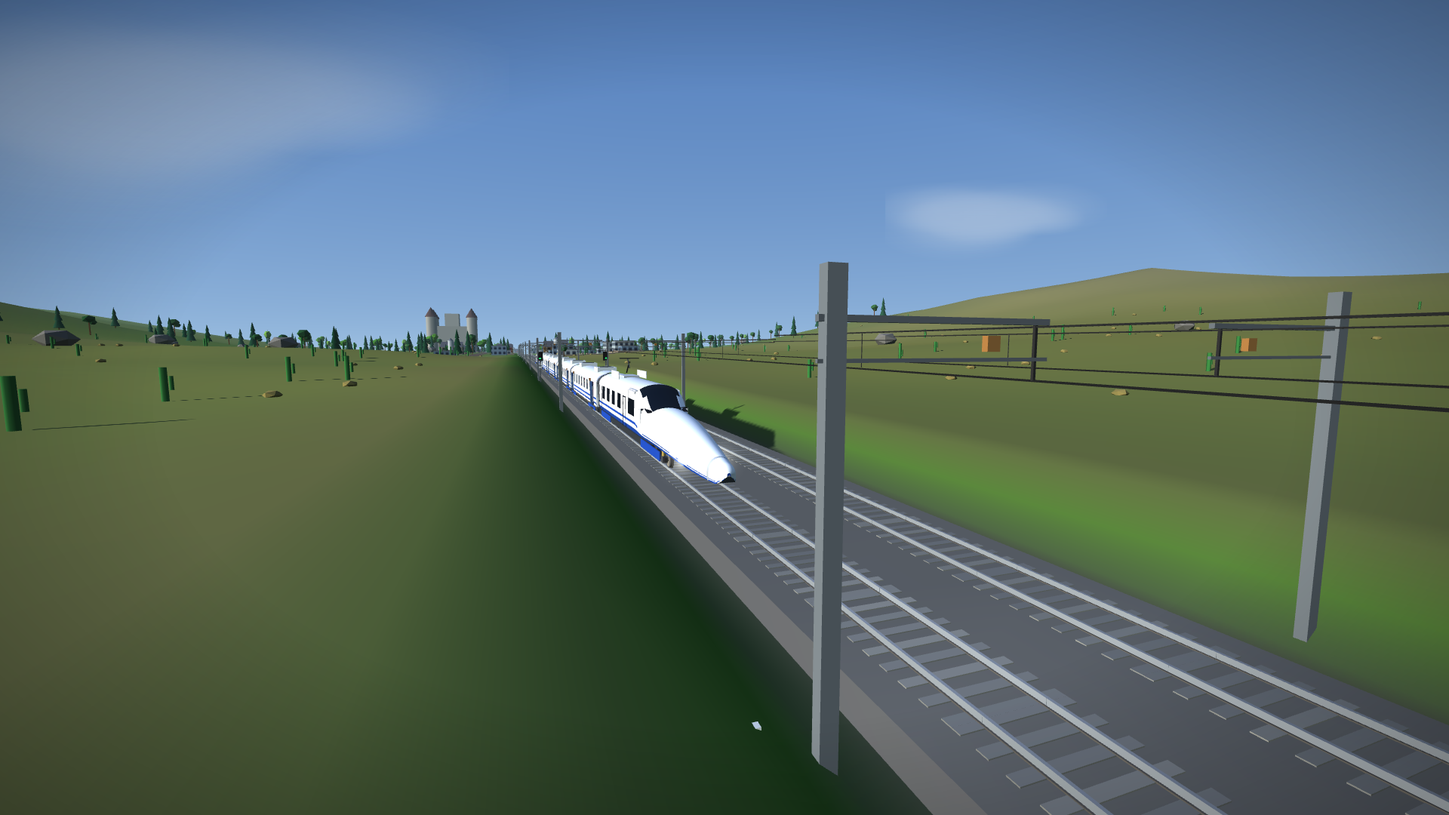
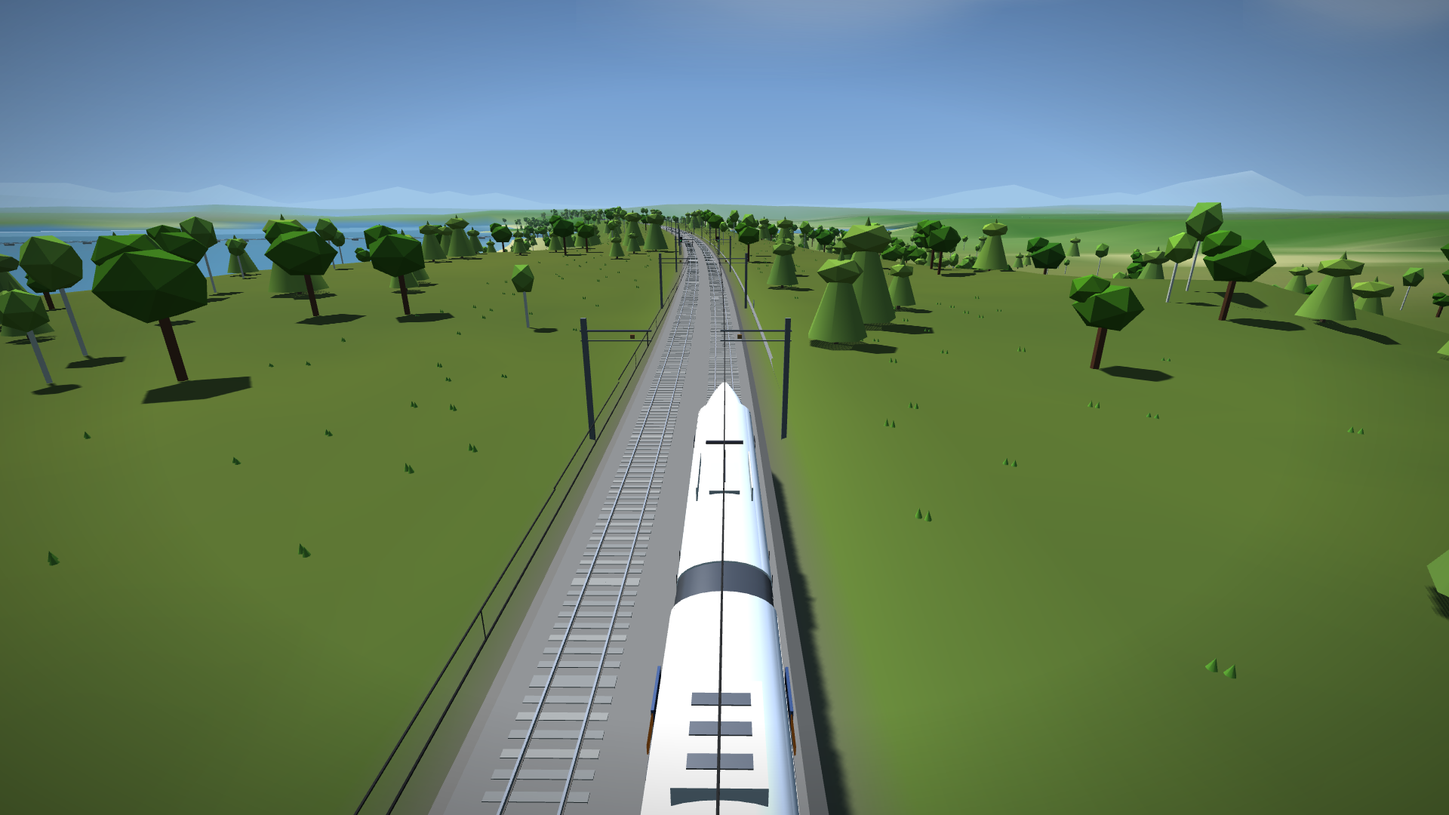
Google Play publication kit and fresh store screenshots from 2.0.0
- docs/release/google-play: first message for a browser-enabled session, answers for every Play Console form,
  testers' invitation, GitHub Pages developer site
- android/store/screenshots: 7 new 1920x1080 shots of the current build (high-speed train, cab at sunrise, rain with
  wipers, night run, station, inside the car, menu)

Claude-Session: https://claude.ai/code/session_017UEFq91NZ3baap6wsPnJ2Z

diff --git a/endless-rails/docs/release/google-play/website/index.html b/endless-rails/docs/release/google-play/website/index.html
@@ -1,0 +1,24 @@
+<!doctype html>
+<html lang="en">
+<head>
+<meta charset="utf-8">
+<meta name="viewport" content="width=device-width, initial-scale=1">
+<title>Endless Rails</title>
+<style>
+:root{--ink:#0b1017;--paper:#e9e4d8;--steel:#9fb3c8;--brass:#e8a33d}
+body{margin:0;background:var(--ink);color:var(--paper);font:16px/1.6 system-ui,-apple-system,"Segoe UI",sans-serif}
+main{max-width:720px;margin:0 auto;padding:48px 16px}
+h1{letter-spacing:.08em;margin:0 0 8px}h1 span{color:var(--brass)}
+p{color:var(--paper)}a{color:var(--brass)}small{color:var(--steel)}
+</style>
+</head>
+<body>
+<main>
+<h1>ENDLESS <span>RAILS</span></h1>
+<p>A relaxing train-driving simulator on an endless double-track railway: two trains, ten cameras, weather, day and night,
+driver training and ten languages.</p>
+<p><a href="privacy-policy.html">Privacy policy</a></p>
+<p><small>Contact: [CONTACT E-MAIL]</small></p>
+</main>
+</body>
+</html>

diff --git a/endless-rails/docs/release/google-play/PLAY_CONSOLE_ANSWERS_UK.md b/endless-rails/docs/release/google-play/PLAY_CONSOLE_ANSWERS_UK.md
@@ -1,0 +1,98 @@
+# ENDLESS RAILS — готові відповіді для Google Play Console
+
+Назви полів подано англійською, як у Play Console. Якщо екран виглядає інакше (Google часто змінює інтерфейс),
+відповідай за змістом. Для пунктів, яких тут немає, — спершу питай.
+
+## 1. Create app
+| Поле | Відповідь |
+|---|---|
+| App name | `Endless Rails: Train Driver` (en) або `Endless Rails: машиніст` (uk), повний список — `store/listing/*.txt` |
+| Default language | English (United States) – en-US (або Ukrainian – uk) |
+| App or game | **Game** |
+| Free or paid | **Free** (змінити на платну потім неможливо) |
+| Declarations | Developer Program Policies ✔, US export laws ✔ — **ставить власник акаунта сам** |
+
+## 2. App content (Policy → App content)
+| Розділ | Відповідь |
+|---|---|
+| Privacy policy | `https://<логін>.github.io/privacy-policy.html` (після кроку з сайтом) |
+| App access | **All functionality is available without any access restrictions** |
+| Ads | **Yes, my app contains ads** |
+| Content rating | анкета нижче (§3) |
+| Target audience and content | Вік: **13–15, 16–17, 18+** (не обирати групи до 13 років). «Could your store listing unintentionally appeal to children?» → **No** |
+| News apps | **No** |
+| COVID-19 apps | My app is not a publicly available COVID-19 app |
+| Data safety | §4 |
+| Government apps | **No** |
+| Financial features | **My app doesn't provide any financial features** |
+| Health | **My app doesn't have any health features** |
+| Advertising ID | **Yes**. Цілі: **Advertising or marketing**; **Fraud prevention, security, and compliance**; **Analytics** |
+| Інші декларації (foreground service, photo/video, exact alarms, accessibility тощо) | Не застосовуються: таких дозволів у застосунку немає. Якщо Play Console усе ж питає — показати мені |
+
+## 3. Content rating (анкета IARC)
+* Email: контактний email розробника. Category: **Game**.
+* Violence — **No** (людей і тварин ніхто не кривдить; вулкан, цунамі, торнадо, метеорити — лише візуальні природні явища без постраждалих).
+* Fear / horror — **No**. Sexuality / nudity — **No**. Language (profanity) — **No**. Controlled substances (drugs, alcohol, tobacco) — **No**. Crude humour — **No**.
+* Gambling / simulated gambling / loot boxes — **No**.
+* Users can interact or exchange content (chat, UGC) — **No**. Shares user's current physical location — **No**.
+* Digital purchases (in-app purchases) — **No**. Unrestricted internet / web browser — **No**.
+* Очікуваний результат: «Everyone» / PEGI 3 / USK 0 — рейтинг визначає анкета, не ми.
+
+## 4. Data safety
+Сама гра нічого не збирає й не надсилає. Дані обробляє лише **Google Mobile Ads SDK** (AdMob) і UMP. Перед відправкою
+звір відповіді з актуальною сторінкою Google «Google Mobile Ads SDK — Data disclosure».
+| Питання | Відповідь |
+|---|---|
+| Does your app collect or share any of the required user data types? | **Yes** |
+| Is all of the user data collected by your app encrypted in transit? | **Yes** |
+| Do you provide a way for users to request that their data is deleted? | **No** (облікових записів немає; рекламний ID скидається в налаштуваннях Android; про це сказано в політиці) |
+| **Location → Approximate location** | Collected **and** shared · Required · Advertising or marketing; Fraud prevention, security, and compliance |
+| **App activity → App interactions** | Collected **and** shared · Required · Advertising or marketing; Analytics |
+| **App info and performance → Crash logs; Diagnostics** | Collected **and** shared · Required · Analytics; Fraud prevention, security, and compliance |
+| **Device or other IDs** (advertising ID, app set ID) | Collected **and** shared · Required · Advertising or marketing; Fraud prevention, security, and compliance; Analytics |
+| Усе інше (ім'я, email, контакти, фото, файли, точне місцезнаходження, здоров'я, фінанси, повідомлення…) | **Not collected** |
+| Is the data processed ephemerally? | **No** |
+
+## 5. Main store listing (Grow → Store presence → Main store listing)
+| Поле | Звідки |
+|---|---|
+| App name / Short description / Full description | `store/listing/en.txt` (мова за замовчуванням) |
+| Translations (Add translations) | uk, ru, de, fr, es-ES, pt-BR, ro, ja, zh-CN → відповідні файли `store/listing/*.txt` |
+| App icon 512×512 | `store/icon-512.png` |
+| Feature graphic 1024×500 | `store/feature-graphic-1024x500.png` |
+| Phone screenshots (2–8) | `store/screenshots/` (свіжі з версії 2.0.0, 1920×1080); резерв — `store/screenshots-old/` |
+| Tablet screenshots | необов'язково; можна ті самі 1920×1080 |
+| Video | необов'язково (YouTube) |
+
+**Store settings:** App category **Game → Simulation**; Tags — Simulation, Trains (з переліку Google); Contact email —
+публічний email розробника; Website — `https://<логін>.github.io`; External marketing — дозволити.
+
+## 6. Closed testing (Testing → Closed testing)
+* Create track → Countries/regions: усі доступні (або хоча б країни тестувальників).
+* Testers: Email list (≥ 12 адрес, краще 15–20) або Google Group. Feedback URL / email — контактний email.
+* Create new release → **App integrity: Play App Signing — Use Google-generated key** → Upload `upload/ENDLESS_RAILS.aab`.
+* Release name: `2.0.0 (20000)`.
+* Release notes:
+  ```
+  <en-US>
+  First release: endless double-track railway, two trains (classic and high-speed), 10 cameras, weather, day and night,
+  driver training, events and 10 languages.
+  </en-US>
+  <uk>
+  Перший випуск: нескінченна двоколійна магістраль, два потяги (класичний і швидкісний), 10 камер, погода, день і ніч,
+  навчання машиніста, події та 10 мов.
+  </uk>
+  ```
+* Review release → **Start rollout to Closed testing** — тільки після мого «так».
+* Особистий акаунт: ≥ 12 тестувальників підписані **14 днів поспіль**; не призупиняти трек. Потім Dashboard → **Apply for production**.
+
+## 7. AdMob (admob.google.com)
+1. Apps → ENDLESS RAILS (Android, `com.endlessrails.game`) — перевірити, що App ID `ca-app-pub-7389308732042512~6246758735` і rewarded-блок `…/4275201510` існують.
+2. **Privacy & messaging → European regulations → Create message** → застосунок ENDLESS RAILS → мови (en + інші) → Publish.
+3. Після появи гри в Google Play: App settings → **Add app store details** (знайти `com.endlessrails.game`).
+4. **app-ads.txt**: сайт розробника в Play Console має бути `https://<логін>.github.io`, а файл має відкриватися за адресою `https://<логін>.github.io/app-ads.txt`. Перевірка AdMob триває до 24 годин.
+5. Перевіряти рекламу лише через `upload/ENDLESS_RAILS_debug.apk` (тестова реклама). У живій версії рекламу не натискати.
+
+## 8. Production (після схвалення доступу)
+Production → Create new release → **Add from library** (той самий AAB 2.0.0) → Countries → (за бажанням staged rollout 20 %) →
+Review → **Send for review** — тільки після мого «так». Наступні оновлення: потрібен новий AAB із versionCode > 20000.

diff --git a/endless-rails/docs/release/google-play/SESSION_PROMPT.md b/endless-rails/docs/release/google-play/SESSION_PROMPT.md
@@ -1,0 +1,58 @@
+# Task: publish ENDLESS RAILS on Google Play — help me in my browser
+
+Talk to me in **Ukrainian**. You are running on my computer with control of my browser (Claude in Chrome / computer use).
+Everything you need is in this folder (`PLAY_PUBLISH_PACK`); I unpacked it on my computer. Read `PLAY_CONSOLE_ANSWERS_UK.md`
+before you start filling anything in — it has the answer for every Play Console form.
+
+## The app (already finished — do not change the game)
+* **ENDLESS RAILS 2.0.0** — an endless train-driving simulator (HTML5/WebGL game in an Android WebView).
+* Package **`com.endlessrails.game`**, versionCode **20000**, versionName **2.0.0**, min SDK 24, target/compile SDK **36**
+  (meets the Aug-2026 target-API rule). No native libraries (16 KB page rule not affected).
+* Upload file: `upload/ENDLESS_RAILS.aab` — signed with my upload key (SHA-256
+  `01:BA:CD:9E:CC:95:99:87:B3:0E:46:57:46:6A:25:2D:9B:24:85:22:10:9D:E1:84:F4:F7:2C:D9:0A:BD:B9:4E`). The keystore itself
+  is **not** in this pack and must never be uploaded anywhere — when Play Console offers **Play App Signing**, accept
+  “Google-generated key”; my key then serves as the upload key.
+* Ads: **AdMob rewarded video only**, shown only when the player chooses it in *Extras*. App ID
+  `ca-app-pub-7389308732042512~6246758735`, rewarded unit `ca-app-pub-7389308732042512/4275201510` (already inside the
+  AAB). Consent: Google UMP. `upload/ENDLESS_RAILS_debug.apk` shows **only Google test ads** (package
+  `com.endlessrails.game.debug`) — use it for any ad check, never the live build.
+* Permissions in the AAB: INTERNET, VIBRATE, ACCESS_NETWORK_STATE, AD_ID, ACCESS_ADSERVICES_AD_ID / ATTRIBUTION /
+  TOPICS, WAKE_LOCK (the last six come from the Google Mobile Ads SDK). No location, camera, contacts, storage.
+* The game itself collects nothing; only the AdMob SDK processes data (see Data safety in the answers file).
+* Source code (if you need it): GitHub `Random-fact/Random-fact`, branch `claude/endless-rails-global-audit-u11yd8`
+  (`android/`, `endless-rails/docs/release/*.md`, `endless-rails/docs/GOOGLE_PLAY_CHECKLIST.md`). You should not need to
+  build anything; if a new AAB is ever required, the versionCode must be raised above 20000 — tell me first.
+
+## What to do, in order (details in PLAY_CONSOLE_ANSWERS_UK.md)
+1. **Website + privacy policy.** Ask me for: developer name (as it will appear on Google Play), country, contact
+   e-mail. Replace the placeholders in `website/privacy-policy.html` (`[DEVELOPER NAME]`, `[POSTAL ADDRESS OR COUNTRY]`,
+   `[CONTACT E-MAIL]`, `[DATE OF PUBLICATION]` and the Ukrainian ones `[ІМ’Я / НАЗВА РОЗРОБНИКА]`, `[АДРЕСА АБО КРАЇНА]`,
+   `[E-MAIL]`, `[ДАТА ПУБЛІКАЦІЇ]`) and `[CONTACT E-MAIL]` in `website/index.html`; steps are in
+   `website/README_GITHUB_PAGES_UK.md`. Help me publish `website/` with **GitHub Pages** in a repository named
+   `<my-github-login>.github.io` (so `app-ads.txt` sits at the domain root). Check that
+   `https://<login>.github.io/privacy-policy.html` and `https://<login>.github.io/app-ads.txt` open.
+2. **Play Console account** (play.google.com/console/signup). I do the sign-up, the $25 payment, identity/phone
+   verification and accept the agreements **myself** — you guide me and wait. Ask me whether the account is personal or
+   an organisation (a new personal account needs the 12-tester / 14-day closed test before production).
+3. **Create the app**, fill **App content** (privacy policy, app access, ads, content rating, target audience, data
+   safety, advertising ID, government/financial/health/news) and the **Main store listing** (texts in `store/listing/`,
+   graphics in `store/`, screenshots in `store/screenshots/` — fall back to `store/screenshots-old/` only if needed;
+   add the 9 extra languages as translations).
+4. **Closed testing track**: countries, testers list (I give you the e-mails or a Google Group), upload
+   `upload/ENDLESS_RAILS.aab`, release name `2.0.0`, release notes from the answers file, accept Play App Signing.
+   **Before pressing “Start rollout” / “Send for review”, show me a summary and wait for my explicit “yes”.**
+   Then give me the opt-in link and the invitation text from `TESTERS_INVITE_UK.md`.
+5. **AdMob** (admob.google.com, I am already registered): Privacy & messaging → create and publish a **European
+   regulations (GDPR)** message for this app; later link the app to its Play listing; check app-ads.txt status.
+6. After 14 days with ≥12 opted-in testers (personal accounts): **Apply for production**, then a production release
+   (“Add from library” — the same AAB) — again only after my explicit “yes”.
+
+## Rules
+* Never enter, store or repeat my passwords, card data or ID documents; I type those myself. Do not complete payments,
+  accept legal agreements, verify identity or create accounts for me — stop and let me do it.
+* Never click ads in the live app or on AdMob; never upload the keystore or its passwords anywhere.
+* Do not invent facts in declarations. Answers must match the privacy policy and the real app (answers file). If a form
+  asks something the answers file does not cover, ask me.
+* Google changes Play Console often: if a screen differs from the answers file, describe what you see and propose the
+  answer instead of guessing.
+* Say plainly what is done and what is still waiting for me (verification, review, the 14-day test).

diff --git a/endless-rails/docs/release/google-play/START_HERE_UK.md b/endless-rails/docs/release/google-play/START_HERE_UK.md
@@ -1,0 +1,40 @@
+# ENDLESS RAILS → Google Play: пакет для нової сесії
+
+## Що в пакеті
+| Файл / папка | Для чого |
+|---|---|
+| `SESSION_PROMPT.md` | **Повідомлення для нової сесії Claude** — весь контекст, порядок дій і правила безпеки. Скопіюй його повністю як перше повідомлення. |
+| `PLAY_CONSOLE_ANSWERS_UK.md` | Готова відповідь для кожної форми Play Console (вміст застосунку, рейтинг, Data safety, сторінка магазину, тестування, AdMob). |
+| `TESTERS_INVITE_UK.md` | Текст запрошення для 12+ тестувальників (укр. + англ.). |
+| `upload/ENDLESS_RAILS.aab` | Файл, який завантажується в Google Play. |
+| `upload/ENDLESS_RAILS_debug.apk` | Версія лише з тестовою рекламою Google — щоб безпечно перевірити рекламу на своєму телефоні. |
+| `store/` | Іконка 512×512, обкладинка 1024×500, свіжі скриншоти, тексти магазину 10 мовами (`listing/*.txt`). |
+| `website/` | Сайт розробника для GitHub Pages: політика конфіденційності, `app-ads.txt`, головна сторінка + інструкція. |
+
+**Ключа підпису тут немає навмисно.** Він в окремому архіві `ENDLESS_RAILS_SIGNING_KEY.zip`: тримай його в
+безпеці й нікуди не завантажуй. Для Google Play він не потрібен, бо AAB уже підписаний.
+
+## Як запустити нову сесію з керуванням браузером
+1. Розпакуй цей архів у зручну папку на своєму комп'ютері, наприклад `Документи\ENDLESS_RAILS_PLAY`.
+2. Відкрий застосунок **Claude** на комп'ютері й увімкни керування браузером (**Claude in Chrome** або **керування комп'ютером**), якщо ще не ввімкнено.
+3. Почни нову розмову або сесію Claude Code в цій папці, щоб Claude бачив файли пакета.
+4. Встав увесь текст із `SESSION_PROMPT.md` першим повідомленням.
+
+## Що буде твоєю частиною (Claude цього не робитиме за тебе)
+* Реєстрація в Play Console, оплата **$25**, перевірка особи й телефону, прийняття угод Google.
+* Вхід у свої акаунти (Google, GitHub, AdMob): паролі вводиш сам.
+* Знайти **12+ тестувальників** (email-адреси Google-акаунтів). Для нового особистого акаунта тест триває 14 днів.
+* Сказати «так» перед кожною відправкою на перевірку чи публікацією.
+
+## Що мати під рукою
+* Google-акаунт для розробника, банківська картка, документ, що посвідчує особу, телефон.
+* Ім'я або назва розробника, країна, публічний email для зв'язку.
+* Акаунт GitHub (для безкоштовного сайту з політикою конфіденційності).
+* Список email тестувальників.
+
+## Скільки це займе
+* Підготовка, сайт і заповнення форм: 1–2 години.
+* Перевірка акаунта: кілька днів.
+* Закрите тестування: 14 днів.
+* Розгляд доступу до продакшну: до ~7 днів.
+* Розгляд релізу: від кількох годин до кількох днів.

diff --git a/endless-rails/docs/release/google-play/TESTERS_INVITE_UK.md b/endless-rails/docs/release/google-play/TESTERS_INVITE_UK.md
@@ -1,0 +1,23 @@
+# Запрошення для тестувальників (скопіюй і розішли)
+
+## Українською
+Привіт! Я випускаю свою гру **ENDLESS RAILS** — спокійний симулятор машиніста на нескінченній залізниці — у Google Play.
+Google вимагає, щоб перед публікацією щонайменше 12 людей потестували гру 14 днів. Допоможеш?
+
+1. Відкрий посилання (з того самого Google-акаунта, що й на телефоні): **<ПОСИЛАННЯ НА ТЕСТУВАННЯ>**
+2. Натисни «Стати тестувальником», потім «Завантажити з Google Play» і встанови гру.
+3. **Не видаляй гру й не виходь із тестування 14 днів** і заходь у неї кілька разів (хоч на 5 хвилин).
+4. Якщо щось не так — напиши мені або залиш відгук у Google Play.
+
+Реклама в грі лише за бажанням (у розділі «Додатково»). Дякую!
+
+## English
+Hi! I'm releasing my game **ENDLESS RAILS** — a relaxing endless train-driving simulator — on Google Play. Google
+requires at least 12 people to test it for 14 days first. Could you help?
+
+1. Open this link with the Google account used on your phone: **<TESTING LINK>**
+2. Tap “Become a tester”, then “Download it on Google Play” and install the game.
+3. **Please keep the game installed and stay in the test for 14 days**, and open it a few times (even 5 minutes).
+4. Anything wrong? Message me or leave feedback on Google Play.
+
+Ads only appear if you choose to watch one in *Extras*. Thank you!

diff --git a/endless-rails/docs/release/google-play/website/README_GITHUB_PAGES_UK.md b/endless-rails/docs/release/google-play/website/README_GITHUB_PAGES_UK.md
@@ -1,0 +1,14 @@
+# Сайт розробника на GitHub Pages (безкоштовно)
+
+Потрібен для двох речей: публічна **політика конфіденційності** (обов'язкова в Play Console) і **app-ads.txt**
+(AdMob читає його лише з кореня сайту, вказаного в Play Console).
+
+1. Заміни заглушки `[...]` у `privacy-policy.html` та `index.html` (ім'я/назва розробника, країна, email, дата).
+2. На github.com створи **публічний** репозиторій з назвою точно `<твій-логін>.github.io`.
+3. Завантаж у нього файли з цієї папки: `index.html`, `privacy-policy.html`, `app-ads.txt` (Add file → Upload files → Commit).
+4. Settings → Pages → Source: «Deploy from a branch», гілка `main`, папка `/ (root)` → Save. Зачекай 1–2 хвилини.
+5. Перевір у браузері:
+   * `https://<логін>.github.io/` — сторінка гри;
+   * `https://<логін>.github.io/privacy-policy.html` — це посилання вписати в Play Console (App content → Privacy policy);
+   * `https://<логін>.github.io/app-ads.txt` — має показати рядок `google.com, pub-7389308732042512, DIRECT, f08c47fec0942fa0`.
+6. У Play Console (Store settings → Website) вкажи `https://<логін>.github.io`.

diff --git a/endless-rails/docs/release/google-play/README.md b/endless-rails/docs/release/google-play/README.md
@@ -1,0 +1,12 @@
+# Google Play publication kit
+
+The same files as `PLAY_PUBLISH_PACK.zip` (handed to the developer), minus the binaries:
+* `START_HERE_UK.md` — what the kit is and how to start a browser-enabled Claude session
+* `SESSION_PROMPT.md` — first message for that session (context, order of work, safety rules)
+* `PLAY_CONSOLE_ANSWERS_UK.md` — answers for every Play Console form
+* `TESTERS_INVITE_UK.md` — invitation text for the closed test
+* `website/` — developer site for GitHub Pages (add `../../privacy-policy.html` and `../../app-ads.txt`)
+
+Binaries: `ENDLESS_RAILS.aab` and the debug APK are built from `android/` (see `../BUILD.md`) and are in the release
+archive. Store graphics: `android/store/` (icon, feature graphic, screenshots 1920×1080 from 2.0.0), texts:
+`android/store/listing/*.json`.
